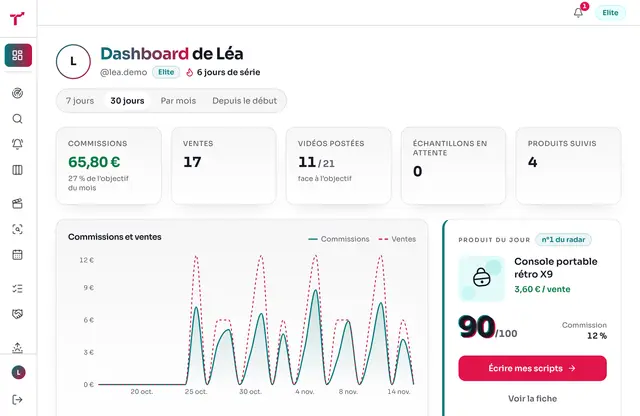
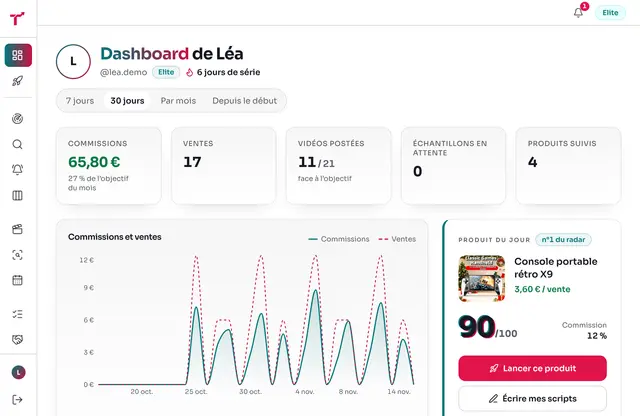
Lancer un produit 6 : parcours Playwright, captures des étapes, calendrier sur téléphone, carte du défilé
Claude-Session: https://claude.ai/code/session_01Cx6KaBMS47QgTieMCk6vZn

diff --git a/tests/e2e/lancement.spec.ts b/tests/e2e/lancement.spec.ts
@@ -1,0 +1,97 @@
+import { expect, test } from '@playwright/test';
+import { newOnboardedUser } from './helpers';
+
+/**
+ * « Lancer un produit », de bout en bout (mode local isolé : scripts simulés, aucun appel à TikTok) : choix sur le radar,
+ * échantillon, scripts, planning, tournage, publication avec un lien de vidéo TikTok, résultats ; le statut du dashboard
+ * suit chaque étape et se corrige au menu déroulant.
+ */
+test('lancer un produit : du radar à la vidéo en ligne, statut du dashboard à chaque étape', async ({ page }) => {
+  test.setTimeout(240_000);
+  await newOnboardedUser(page, 'lancement', 'Pro');
+
+  async function stageOf(name: string) {
+    await page.goto('/app?onglet=produits#gestion');
+    const row = page.locator('#gestion table tbody tr', { hasText: name });
+    return row.getByRole('combobox', { name: `Statut de ${name}` });
+  }
+
+  // 1. Produit : « Lancer ce produit » sur le radar
+  await page.goto('/app/radar');
+  await page.getByRole('button', { name: 'Lancer ce produit' }).first().click();
+  await expect(page).toHaveURL(/\/app\/lancer\/[\w-]+\?etape=echantillon/);
+  const launchUrl = page.url().split('?')[0];
+  await expect(page.getByRole('heading', { level: 1 })).toHaveText('Demande ton échantillon');
+  const name = (await page.locator('main p.truncate').first().textContent())!.trim();
+  await expect(await stageOf(name)).toHaveValue('a_lancer');
+
+  // 2. Échantillon : demandé, puis reçu
+  await page.goto(`${launchUrl}?etape=echantillon`);
+  await expect(page.getByRole('button', { name: 'Copier le message' })).toBeVisible();
+  await page.getByLabel('Échantillon demandé').check();
+  await page.getByRole('button', { name: 'Enregistrer', exact: true }).click();
+  await expect(page.getByText('Demande notée.')).toBeVisible();
+  await expect(await stageOf(name)).toHaveValue('echantillon_demande');
+  await page.goto(`${launchUrl}?etape=echantillon`);
+  await page.getByLabel('Échantillon reçu').check();
+  await page.getByRole('button', { name: 'Enregistrer', exact: true }).click();
+  await expect(page).toHaveURL(/etape=scripts/);
+  await expect(await stageOf(name)).toHaveValue('echantillon_recu');
+
+  // 3. Scripts : écrits dans l'étape, un script gardé
+  await page.goto(`${launchUrl}?etape=scripts`);
+  await expect(page.getByRole('button', { name: 'Étape suivante' })).toBeDisabled();
+  await page.getByRole('button', { name: 'Écrire mes scripts' }).click();
+  await expect(page).toHaveURL(/ecrit=/);
+  await page.getByRole('button', { name: 'Garder pour une vidéo' }).first().click();
+  await expect(page.getByRole('button', { name: 'Gardé · vidéo n°1' })).toBeVisible();
+  await page.getByRole('button', { name: 'Étape suivante' }).click();
+  await expect(page).toHaveURL(/etape=planifier/);
+  await expect(await stageOf(name)).toHaveValue('scripts_prets');
+
+  // 4. Planifier : répartition au rythme de l'onboarding, puis une vidéo déplacée (au toucher)
+  await page.goto(`${launchUrl}?etape=planifier`);
+  await page.getByRole('button', { name: 'Planifier mes vidéos' }).click();
+  await expect(page.getByText('Vidéos réparties dans ton calendrier.')).toBeVisible();
+  await page.getByRole('button', { name: /^Vidéo n°1 / }).click();
+  const targets = page.getByRole('button', { name: /^Mettre la vidéo n°1 le / });
+  await targets.last().click();
+  await expect(page.getByRole('status').filter({ hasText: 'Vidéo n°1 déplacée' })).toHaveCount(1);
+  await page.getByRole('button', { name: 'Étape suivante' }).click();
+  await expect(page).toHaveURL(/etape=tourner/);
+
+  // 5. Tourner : la vidéo n°1 a son script et son téléprompteur
+  await expect(page.getByRole('button', { name: 'Téléprompteur' }).first()).toBeVisible();
+  await page.getByRole('button', { name: 'Vidéo n°1 tournée' }).click();
+  await expect(page.getByRole('button', { name: 'Vidéo n°1 tournée' })).toHaveAttribute('aria-pressed', 'true');
+  await expect(await stageOf(name)).toHaveValue('en_tournage');
+  await page.goto(`${launchUrl}?etape=tourner`);
+  await page.getByRole('button', { name: 'Étape suivante' }).click();
+  await expect(page).toHaveURL(/etape=publier/);
+
+  // 6. Publier : le lien de la vidéo la passe en ligne
+  await page.getByLabel('Lien de ta vidéo n°1 sur TikTok').fill('https://www.tiktok.com/@labras3/video/7685364570164088097');
+  await page.getByRole('button', { name: 'C’est en ligne' }).click();
+  await expect(page.getByText('Ta première vidéo est en ligne, bravo !').first()).toBeAttached();
+  await expect(page.locator('iframe[title="Vidéo n°1 sur TikTok"]')).toHaveCount(1);
+  await expect(await stageOf(name)).toHaveValue('en_ligne');
+
+  // 7. Résultats : vues, ventes, commission
+  await page.goto(`${launchUrl}?etape=resultats`);
+  await page.locator('#resultat-1 input[name=vues]').fill('1200');
+  await page.locator('#resultat-1 input[name=ventes]').fill('2');
+  await page.locator('#resultat-1').getByRole('button', { name: 'Enregistrer' }).click();
+  await expect(page.getByText('Chiffres enregistrés.')).toBeVisible();
+  await page.getByLabel('Montant (€)').fill('9,90');
+  await page.getByRole('button', { name: 'Ajouter la commission' }).click();
+  await expect(page.getByText('Commission ajoutée.')).toBeVisible();
+  await expect(page.getByText('Continue à poster sur ce produit')).toBeVisible();
+
+  // Statut corrigé à la main : « Terminé » range le lancement dans l'historique.
+  const select = await stageOf(name);
+  await select.selectOption('termine');
+  await expect(page).toHaveURL(/ok=statut/);
+  await expect(page.locator('#gestion table tbody tr', { hasText: name })).toHaveCount(0);
+  await page.goto('/app/lancer');
+  await expect(page.locator('#historique').getByText(name)).toBeVisible();
+});

diff --git a/components/launch/plan-calendar.tsx b/components/launch/plan-calendar.tsx
@@ -16,6 +16,8 @@ export interface CalendarVideo {
 const WEEKDAYS = ['Lun.', 'Mar.', 'Mer.', 'Jeu.', 'Ven.', 'Sam.', 'Dim.'];
 const dayLabel = (date: string) =>
   new Intl.DateTimeFormat('fr-FR', { weekday: 'long', day: 'numeric', month: 'long', timeZone: 'UTC' }).format(new Date(`${date}T12:00:00Z`));
+/** Numéro du jour (avec le mois le 1er) : en-tête de case sur téléphone. */
+const dayNumber = (date: string) => (date.endsWith('-01') ? shortDay(date) : String(Number(date.slice(8))));
 const shortDay = (date: string) => new Intl.DateTimeFormat('fr-FR', { day: 'numeric', month: 'short', timeZone: 'UTC' }).format(new Date(`${date}T12:00:00Z`));
 
 /**
@@ -63,12 +65,13 @@ export function PlanCalendar({ launchId, videos, weeks, today }: { launchId: str
       <p className="sr-only" role="status" aria-live="polite">
         {message}
       </p>
-      <div className={cn('overflow-x-auto', pending && 'opacity-80')}>
-        <table className="w-full min-w-[42rem] table-fixed border-separate border-spacing-1 text-sm">
+      <div className={cn(pending && 'opacity-80')}>
+        {/* 7 colonnes à toutes les tailles : sur téléphone, numéro du jour seul et puces compactes. */}
+        <table className="w-full table-fixed border-separate border-spacing-0.5 text-sm sm:border-spacing-1">
           <thead>
             <tr>
               {WEEKDAYS.map((d) => (
-                <th key={d} scope="col" className="pb-1 text-xs font-medium text-muted">
+                <th key={d} scope="col" className="pb-1 text-[11px] font-medium text-muted sm:text-xs">
                   {d}
                 </th>
               ))}
@@ -98,24 +101,28 @@ export function PlanCalendar({ launchId, videos, weeks, today }: { launchId: str
                         setDragging(null);
                       }}
                       className={cn(
-                        'h-24 rounded-xl border align-top transition-colors',
+                        'h-16 rounded-lg border align-top transition-colors sm:h-24 sm:rounded-xl',
                         past ? 'border-transparent bg-fg/[0.02] text-subtle' : 'border-line bg-raised',
                         day === today && 'border-cyan-ink/60',
                         over === day && 'border-cyan-ink bg-cyan-ink/[0.08]',
                       )}
                     >
-                      <div className="flex h-full flex-col gap-1 p-1.5">
+                      <div className="flex h-full flex-col gap-1 p-0.5 sm:p-1.5">
                         {canDrop && selected !== null ? (
                           <button
                             type="button"
                             onClick={() => move(selected, day)}
-                            className="num rounded-md text-left text-xs font-semibold text-cyan-ink underline-offset-2 hover:underline"
+                            className="num rounded-md text-left text-[11px] font-semibold text-cyan-ink underline-offset-2 hover:underline sm:text-xs"
                             aria-label={`Mettre la vidéo n°${selected} le ${dayLabel(day)}`}
                           >
-                            {shortDay(day)} · ici
+                            <span className="sm:hidden">{dayNumber(day)} ici</span>
+                            <span className="hidden sm:inline">{shortDay(day)} · ici</span>
                           </button>
                         ) : (
-                          <span className={cn('num text-xs font-semibold', day === today ? 'text-cyan-ink' : 'text-muted')}>{shortDay(day)}</span>
+                          <span className={cn('num text-[11px] font-semibold sm:text-xs', day === today ? 'text-cyan-ink' : 'text-muted')}>
+                            <span className="sm:hidden">{dayNumber(day)}</span>
+                            <span className="hidden sm:inline">{shortDay(day)}</span>
+                          </span>
                         )}
                         {items.map((v) => (
                           <button
@@ -132,7 +139,7 @@ export function PlanCalendar({ launchId, videos, weeks, today }: { launchId: str
                             aria-pressed={selected === v.n}
                             aria-label={`Vidéo n°${v.n}${v.script ? ` (${v.script})` : ''}, ${dayLabel(day)}${v.status === 'poste' ? ', en ligne' : ' : la choisir pour la déplacer'}`}
                             className={cn(
-                              'flex w-full cursor-grab items-center gap-1 truncate rounded-lg px-1.5 py-1 text-left text-xs font-semibold active:cursor-grabbing',
+                              'flex w-full cursor-grab items-center gap-1 truncate rounded-md px-1 py-0.5 text-left text-[11px] font-semibold active:cursor-grabbing sm:rounded-lg sm:px-1.5 sm:py-1 sm:text-xs',
                               v.status === 'poste'
                                 ? 'cursor-default bg-gain-soft text-gain'
                                 : v.status === 'tourne'
@@ -141,7 +148,7 @@ export function PlanCalendar({ launchId, videos, weeks, today }: { launchId: str
                               selected === v.n && 'ring-2 ring-cyan-ink',
                             )}
                           >
-                            {v.status !== 'poste' ? <GripVertical className="h-3 w-3 shrink-0" aria-hidden="true" /> : null}
+                            {v.status !== 'poste' ? <GripVertical className="hidden h-3 w-3 shrink-0 sm:block" aria-hidden="true" /> : null}
                             <span className="truncate">n°{v.n}</span>
                           </button>
                         ))}

diff --git a/scripts/screenshots-landing.ts b/scripts/screenshots-landing.ts
@@ -36,6 +36,7 @@ const VIEWPORT = { width: 1100, height: 715 };
 
 export const LANDING_SHOTS = [
   'dashboard',
+  'lancer',
   'radar',
   'fiche-produit',
   'studio',
@@ -128,7 +129,15 @@ const OFFER_TEXT = `Bonjour ! Je m'occupe des partenariats d'une jeune marque de
 ton contenu beauté. On te propose un échantillon gratuit de notre sérum éclat et 15 % de commission sur chaque vente faite avec
 ton lien, pendant 3 mois, pour 2 vidéos par mois. Est-ce que ça t'intéresserait ? Bonne journée, l'équipe partenariats.`;
 
-async function buildDemo(): Promise<{ docId: string; seriesId: string; analysisId: string; offerId: string; productId: string; compare: string[] }> {
+async function buildDemo(): Promise<{
+  docId: string;
+  seriesId: string;
+  analysisId: string;
+  offerId: string;
+  productId: string;
+  compare: string[];
+  launchId: string;
+}> {
   Object.assign(process.env, localEnv(true));
   rmSync(DB_FILE, { force: true });
   const { getRepo } = await import('@/lib/db');
@@ -240,7 +249,27 @@ async function buildDemo(): Promise<{ docId: string; seriesId: string; analysisI
   const seriesId = idOf(await TASK_HANDLERS.serie(profile, { produit: main.id }, repo), /\/app\/studio\/serie\/([\w-]+)$/);
   const analysisId = idOf(await TASK_HANDLERS.analyse(profile, { lien: '', texte: videoText(main.name.toLowerCase()), video: null, produit: main.id }, repo), /analyse=([\w-]+)/);
   const offerId = idOf(await TASK_HANDLERS.offre(profile, { message: OFFER_TEXT }, repo), /offre=([\w-]+)/);
-  return { docId, seriesId, analysisId, offerId, productId: main.id, compare };
+
+  // Lancement du produit principal : produit, échantillon reçu, 3 scripts gardés, vidéos planifiées (calendrier capturé).
+  const { startLaunch, saveLaunch } = await import('@/lib/v2/launch-store');
+  const { completeStep } = await import('@/lib/v2/launch');
+  const { getDoc } = await import('@/lib/studio/store');
+  const { SAMPLE_KIND } = await import('@/lib/v2/manager');
+  const started = await startLaunch(repo, profile, main.id, today);
+  if (!started.ok) throw new Error('Lancement de démo impossible.');
+  const doc = await getDoc(id, docId, repo);
+  const sample = await repo.saveRecord(id, SAMPLE_KIND, {
+    product_id: main.id,
+    product_name: main.name,
+    requested_at: addDays(today, -14),
+    received_at: addDays(today, -11),
+    follow_ups: [],
+    note: null,
+  });
+  let launchData: typeof started.launch.data = { ...started.launch.data, sample: 'recu', sample_id: sample.id, kept: (doc?.scripts ?? []).map((s, i) => ({ doc_id: docId, script: i, title: s.title })) };
+  for (const step of ['echantillon', 'scripts', 'planifier'] as const) launchData = completeStep(launchData, step);
+  await saveLaunch(repo, id, started.launch, launchData);
+  return { docId, seriesId, analysisId, offerId, productId: main.id, compare, launchId: started.launch.id };
 }
 
 // ---------------------------------------------------------------------------------------------------------------------
@@ -306,6 +335,7 @@ async function capture(ids: Awaited<ReturnType<typeof buildDemo>>) {
 
   const pages: Record<(typeof LANDING_SHOTS)[number], string> = {
     dashboard: '/app',
+    lancer: `/app/lancer/${ids.launchId}?etape=planifier`,
     radar: '/app/radar',
     'fiche-produit': `/app/produit/${encodeURIComponent(ids.productId)}`,
     studio: `/app/studio/${ids.docId}`,

diff --git a/tests/e2e/studio.spec.ts b/tests/e2e/studio.spec.ts
@@ -4,12 +4,12 @@ import { newOnboardedUser } from './helpers';
 test('génération de scripts (Starter) : 5 formats, 10 accroches, 3 scripts, régénérer, garder, historique', async ({ page }) => {
   await newOnboardedUser(page, 'studio', 'Starter');
 
-  // Depuis le radar : fiche produit puis « Écrire mes scripts »
+  // Le studio, ouvert sur le premier produit du radar (« Écrire mes scripts » passe par le lancement : voir lancement.spec.ts).
   await page.goto('/app/radar');
   const firstProduct = page.locator('a[href^="/app/produit/"]').first();
-  const productName = (await firstProduct.locator('h2, h3').first().textContent())?.trim() ?? '';
-  await firstProduct.click();
-  await page.getByRole('link', { name: 'Écrire mes scripts' }).click();
+  const productName = ((await firstProduct.getAttribute('aria-label')) ?? '').replace('Ouvrir la fiche de ', '').trim();
+  const productId = ((await firstProduct.getAttribute('href')) ?? '').split('/').pop();
+  await page.goto(`/app/studio?produit=${productId}`);
   await expect(page).toHaveURL(/\/app\/studio\?produit=/);
   await expect(page.getByText('Il te reste 10 écritures aujourd’hui.')).toBeVisible();
   // Starter : 5 formats ouverts, les 3 autres visibles mais fermés (inclus avec Pro).

diff --git a/components/launch/timeline.tsx b/components/launch/timeline.tsx
@@ -35,7 +35,8 @@ export function LaunchTimeline({ id, done, viewing }: { id: string | null; done:
                 <span
                   className={cn(
                     'truncate text-xs font-semibold',
-                    isViewing ? 'text-fg' : 'hidden text-muted group-hover:text-fg sm:block',
+                    // Sur téléphone, seul le nom de l'étape affichée se voit ; les autres restent lus par les lecteurs d'écran.
+                    isViewing ? 'text-fg' : 'sr-only text-muted group-hover:text-fg sm:not-sr-only sm:block',
                   )}
                 >
                   {STEP_LABELS[step]}

diff --git a/components/public/screenshot-marquee.tsx b/components/public/screenshot-marquee.tsx
@@ -17,6 +17,7 @@ export interface MarqueeShot {
 /** Même ordre que `LANDING_SHOTS` dans `scripts/screenshots-landing.ts`. */
 export const MARQUEE_SHOTS: MarqueeShot[] = [
   { slug: 'dashboard', label: 'Dashboard', badge: 'Exemple' },
+  { slug: 'lancer', label: 'Lancer un produit' },
   { slug: 'radar', label: 'Radar' },
   { slug: 'fiche-produit', label: 'Fiche produit' },
   { slug: 'studio', label: 'Studio de scripts' },

diff --git a/DECISIONS.md b/DECISIONS.md
@@ -1367,3 +1367,13 @@ R31. **Comparaison aux références** : deux images côte à côte (capture EtSm
      grande. Résultats : vues et ventes par vidéo (saisies ou corrigées), commissions du produit (saisie, ou import du
      relevé dans le dashboard ; Pro et Elite, comme le suivi des gains), totaux, et un conseil sans promesse
      (lib/v2/launch.ts). « Marquer terminé » ou « Abandonner ce lancement » le range dans l'historique.
+218. **Lancer un produit, étape 6 : vérifications et accueil** (14 novembre). Nouveau parcours Playwright
+     (`tests/e2e/lancement.spec.ts`, sur téléphone) : radar → échantillon demandé puis reçu → scripts écrits et gardé →
+     planning et une vidéo déplacée au toucher → vidéo tournée → lien de vidéo TikTok collé → vues, ventes, commission →
+     statut corrigé à la main en « Terminé » ; le statut du dashboard est vérifié à chaque étape. Le parcours du studio
+     ouvre maintenant le studio directement (« Écrire mes scripts » de la fiche passe par le lancement). Sur téléphone,
+     le calendrier tient en 7 colonnes (numéro du jour seul, puces compactes) et les noms des étapes de la frise restent
+     lus par les lecteurs d'écran. L'audit axe exclut le contenu du lecteur officiel de TikTok (cadre tiers, dont nous ne
+     contrôlons ni les images ni les libellés ; le cadre lui-même a son titre). Le défilé de l'accueil gagne une carte
+     « Lancer un produit » (le compte de démo des captures a un lancement planifié) ; les vraies photos des produits
+     apparaissent maintenant dans les captures (hébergeur ouvert dans l'environnement de capture).
